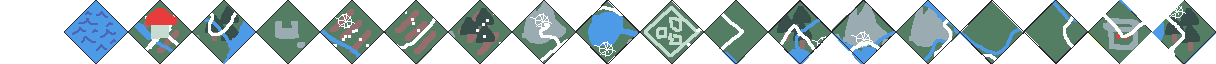
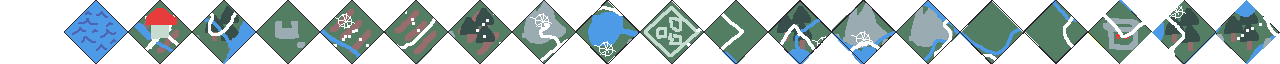
v0.4.280

diff --git a/bleed-server/bin/dark_age/dark_age_scenes.dart b/bleed-server/bin/dark_age/dark_age_scenes.dart
@@ -10,6 +10,9 @@ class DarkAgeScenes {
   late Scene village;
   late Scene castle;
   late Scene forest;
+  late Scene forest_2;
+  late Scene forest_3;
+  late Scene forest_4;
   late Scene farm;
   late Scene darkFortress;
   late Scene darkFortressDungeon;
@@ -22,8 +25,6 @@ class DarkAgeScenes {
   late Scene plains_1;
   late Scene plains_2;
   late Scene plains_3;
-  late Scene forestB;
-  late Scene forest3;
   late Scene mountains_1;
   late Scene mountains_2;
   late Scene empty;
@@ -37,8 +38,9 @@ class DarkAgeScenes {
       village = await loadScene('village');
       castle = await loadScene('castle');
       forest = await loadScene('forest');
-      forestB = await loadScene('forest-b');
-      forest3 = await loadScene('forest-3');
+      forest_2 = await loadScene('forest-b');
+      forest_3 = await loadScene('forest-3');
+      forest_4 = await loadScene('forest-4');
       darkFortress = await loadScene('dark-fortress');
       darkFortressDungeon = await loadScene('dark-fortress-dungeon');
       tavernCellar = await loadScene('tavern-cellar');

diff --git a/bleed-server/bin/engine.dart b/bleed-server/bin/engine.dart
@@ -7,6 +7,7 @@ import 'dark_age/areas/area-empty.dart';
 import 'dark_age/areas/area-farm-a.dart';
 import 'dark_age/areas/area-farm-b.dart';
 import 'dark_age/areas/area-forest-3.dart';
+import 'dark_age/areas/area-forest-4.dart';
 import 'dark_age/areas/area-forest-b.dart';
 import 'dark_age/areas/area-mountain-shrine.dart';
 import 'dark_age/areas/area-mountains-1.dart';
@@ -72,6 +73,7 @@ class Engine {
     ];
     final mapRow4 = <DarkAgeArea>[
       AreaForest3(),
+      AreaForest4(),
     ];
     map.add(mapRow1);
     map.add(mapRow2);

diff --git a/gamestream_flutter/lib/isometric/ui/dialogs/build_game_dialog_map.dart b/gamestream_flutter/lib/isometric/ui/dialogs/build_game_dialog_map.dart
@@ -88,9 +88,11 @@ final mapTiles = <MapTile> [
    MapTile(1, 2, MapTiles.Mountains_2),
    MapTile(1, 3, MapTiles.Plains_2),
    MapTile(1, 4, MapTiles.Outpost_1),
+   MapTile(2, -2, MapTiles.Water),
    MapTile(2, -1, MapTiles.Forest_3),
-
+   MapTile(2, 0, MapTiles.Forest_4),
 ];
+
 
 class MapTile {
   int x;

diff --git a/bleed-server/bin/dark_age/areas/area-forest-3.dart b/bleed-server/bin/dark_age/areas/area-forest-3.dart
@@ -4,5 +4,5 @@ import '../dark_age_scenes.dart';
 import 'dark_age_area.dart';
 
 class AreaForest3 extends DarkAgeArea {
-  AreaForest3() : super(darkAgeScenes.forest3, mapTile: MapTiles.Forest_3);
+  AreaForest3() : super(darkAgeScenes.forest_3, mapTile: MapTiles.Forest_3);
 }

diff --git a/bleed-server/bin/dark_age/areas/area-forest-b.dart b/bleed-server/bin/dark_age/areas/area-forest-b.dart
@@ -4,5 +4,5 @@ import '../dark_age_scenes.dart';
 import 'dark_age_area.dart';
 
 class AreaForestB extends DarkAgeArea {
-  AreaForestB() : super(darkAgeScenes.forestB, mapTile: MapTiles.ForestB);
+  AreaForestB() : super(darkAgeScenes.forest_2, mapTile: MapTiles.ForestB);
 }

diff --git a/bleed-server/bin/dark_age/areas/area-forest-4.dart b/bleed-server/bin/dark_age/areas/area-forest-4.dart
@@ -1,0 +1,8 @@
+
+import '../../common/map_tiles.dart';
+import '../dark_age_scenes.dart';
+import 'dark_age_area.dart';
+
+class AreaForest4 extends DarkAgeArea {
+  AreaForest4() : super(darkAgeScenes.forest_4, mapTile: MapTiles.Forest_4);
+}

diff --git a/bleed-common/lib/map_tiles.dart b/bleed-common/lib/map_tiles.dart
@@ -18,4 +18,5 @@ class MapTiles {
   static const Plains_3 = 16;
   static const Outpost_1 = 17;
   static const Forest_3 = 18;
+  static const Forest_4 = 19;
 }

diff --git a/bleed-server/bin/common/map_tiles.dart b/bleed-server/bin/common/map_tiles.dart
@@ -18,4 +18,5 @@ class MapTiles {
   static const Plains_3 = 16;
   static const Outpost_1 = 17;
   static const Forest_3 = 18;
+  static const Forest_4 = 19;
 }

diff --git a/bleed-common/lib/version.dart b/bleed-common/lib/version.dart
@@ -1,4 +1,4 @@
-const version = 'v0.4.279';
+const version = 'v0.4.280';
 
 
 

diff --git a/bleed-server/bin/common/version.dart b/bleed-server/bin/common/version.dart
@@ -1,4 +1,4 @@
-const version = 'v0.4.279';
+const version = 'v0.4.280';
 
 
 
